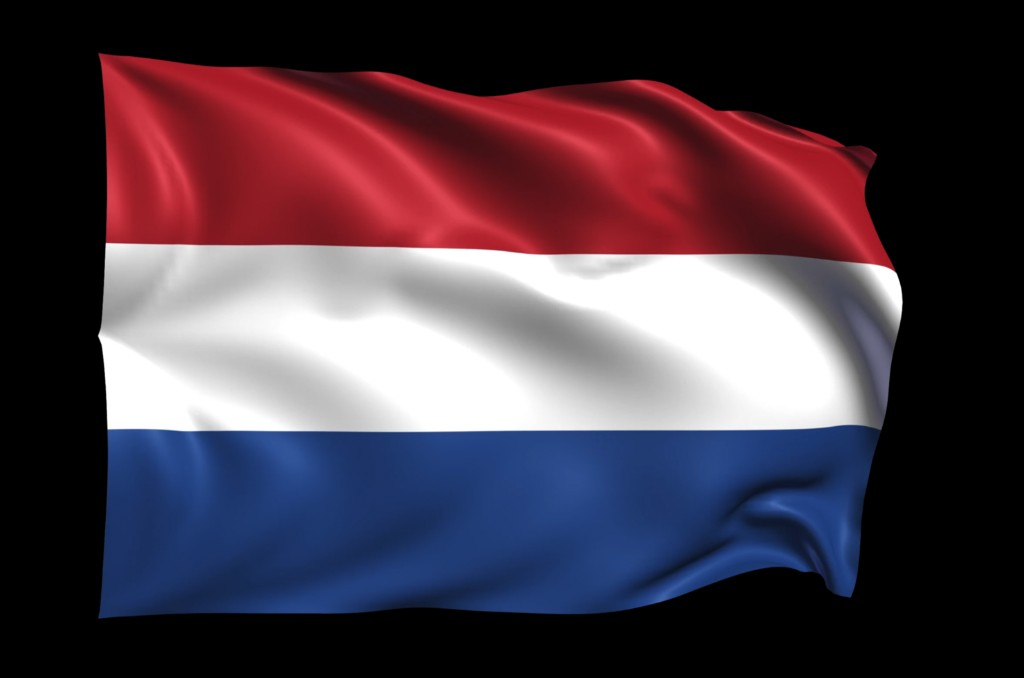
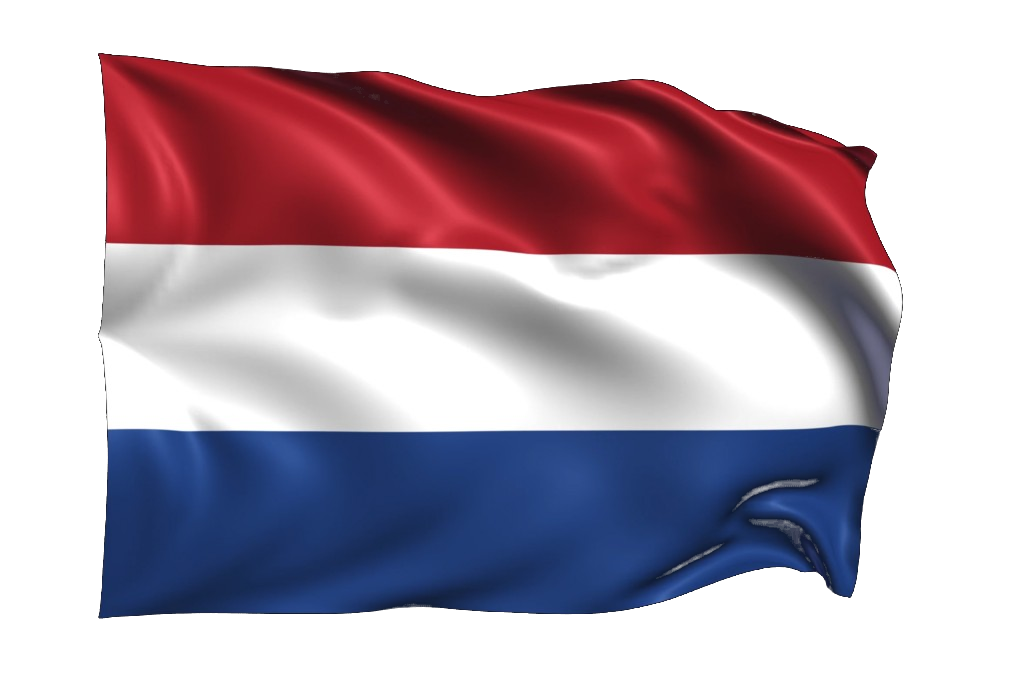
fix: convert nl-flag-wave to true transparent PNG
The asset was a JPEG with a baked-in black background despite the .png
extension. Regenerated with alpha and removed lighten blend mode.

diff --git a/recipe.html b/recipe.html
@@ -130,7 +130,6 @@
       height: auto;
       object-fit: contain;
       opacity: 0.2;
-      mix-blend-mode: lighten;
       filter: drop-shadow(0 10px 28px rgba(23, 8, 5, 0.18));
       user-select: none;
     }
@@ -143,10 +142,7 @@
     .edition-flag-piece.f7 { width: min(320px, 36vw); top: 62%; right: 18%; transform: rotate(-14deg); }
     .edition-flag-piece.f8 { width: min(130px, 15vw); top: 34%; right: 32%; transform: rotate(22deg); }
     .edition-flag-piece.f9 { width: min(260px, 30vw); bottom: 38%; left: 28%; transform: rotate(8deg); }
-    [data-theme="dark"] .edition-flag-piece {
-      mix-blend-mode: normal;
-      opacity: 0.16;
-    }
+    [data-theme="dark"] .edition-flag-piece { opacity: 0.16; }
 
     body.edition-es::after {
       content: "";
